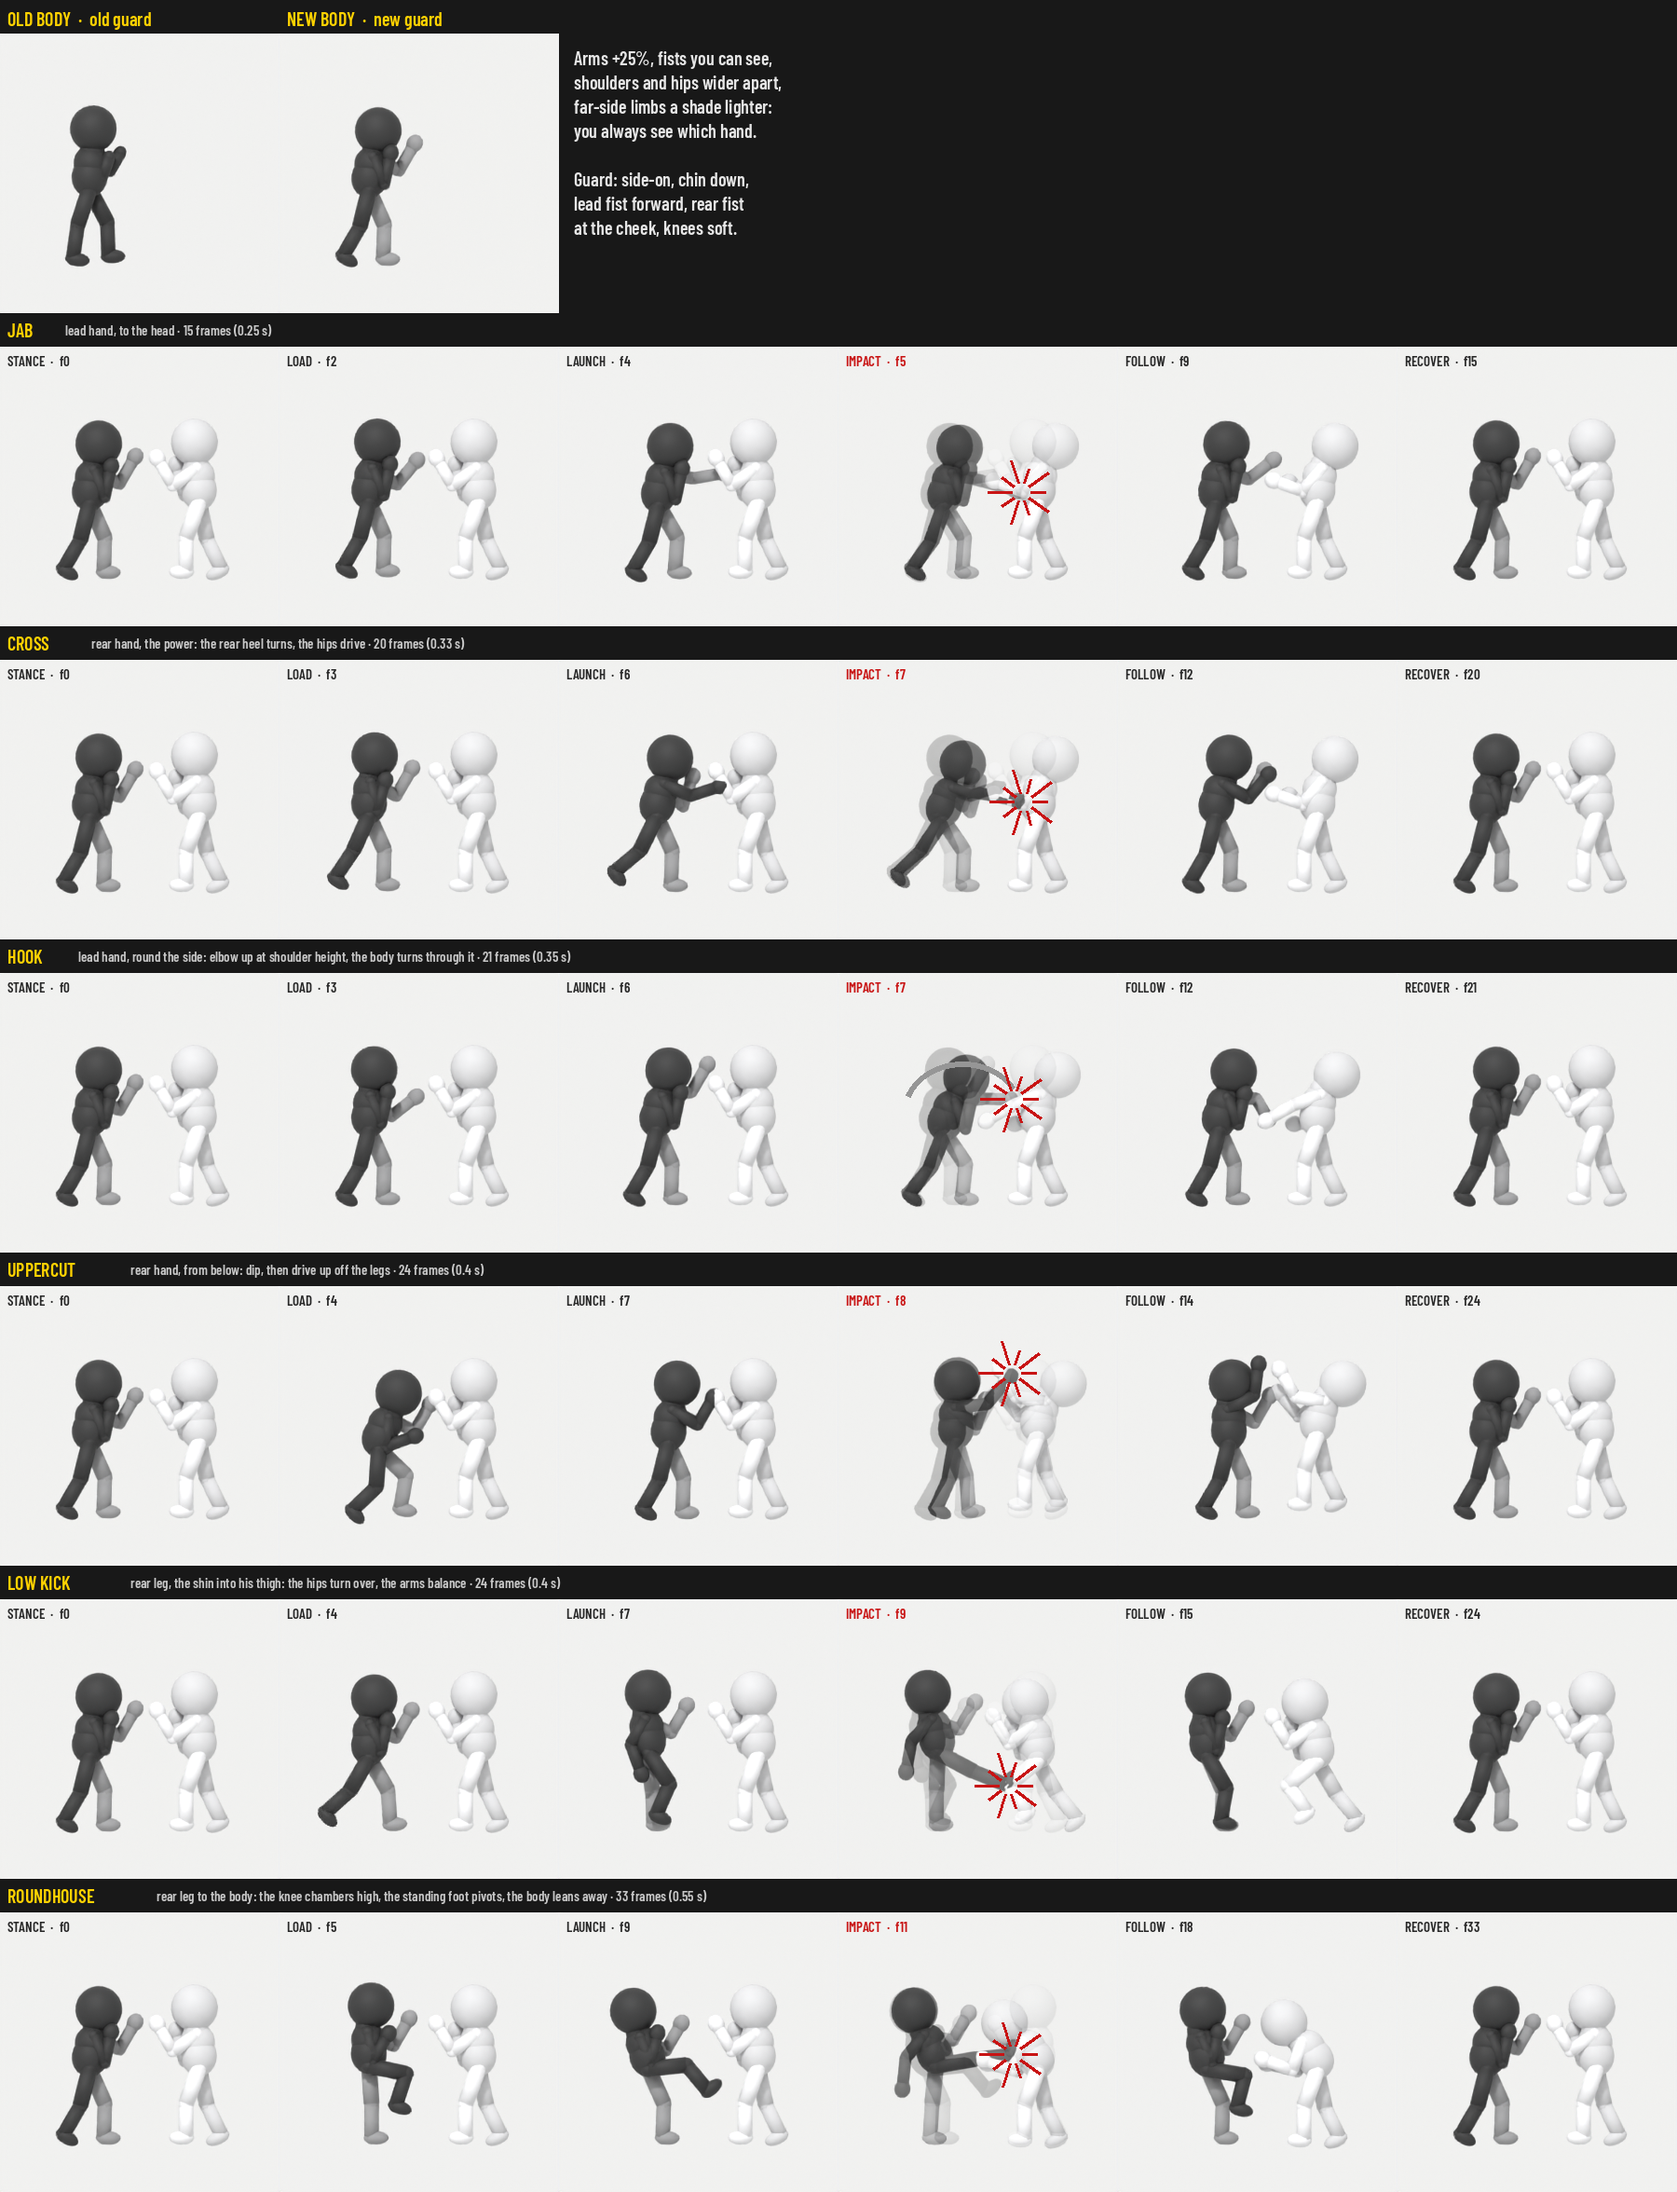
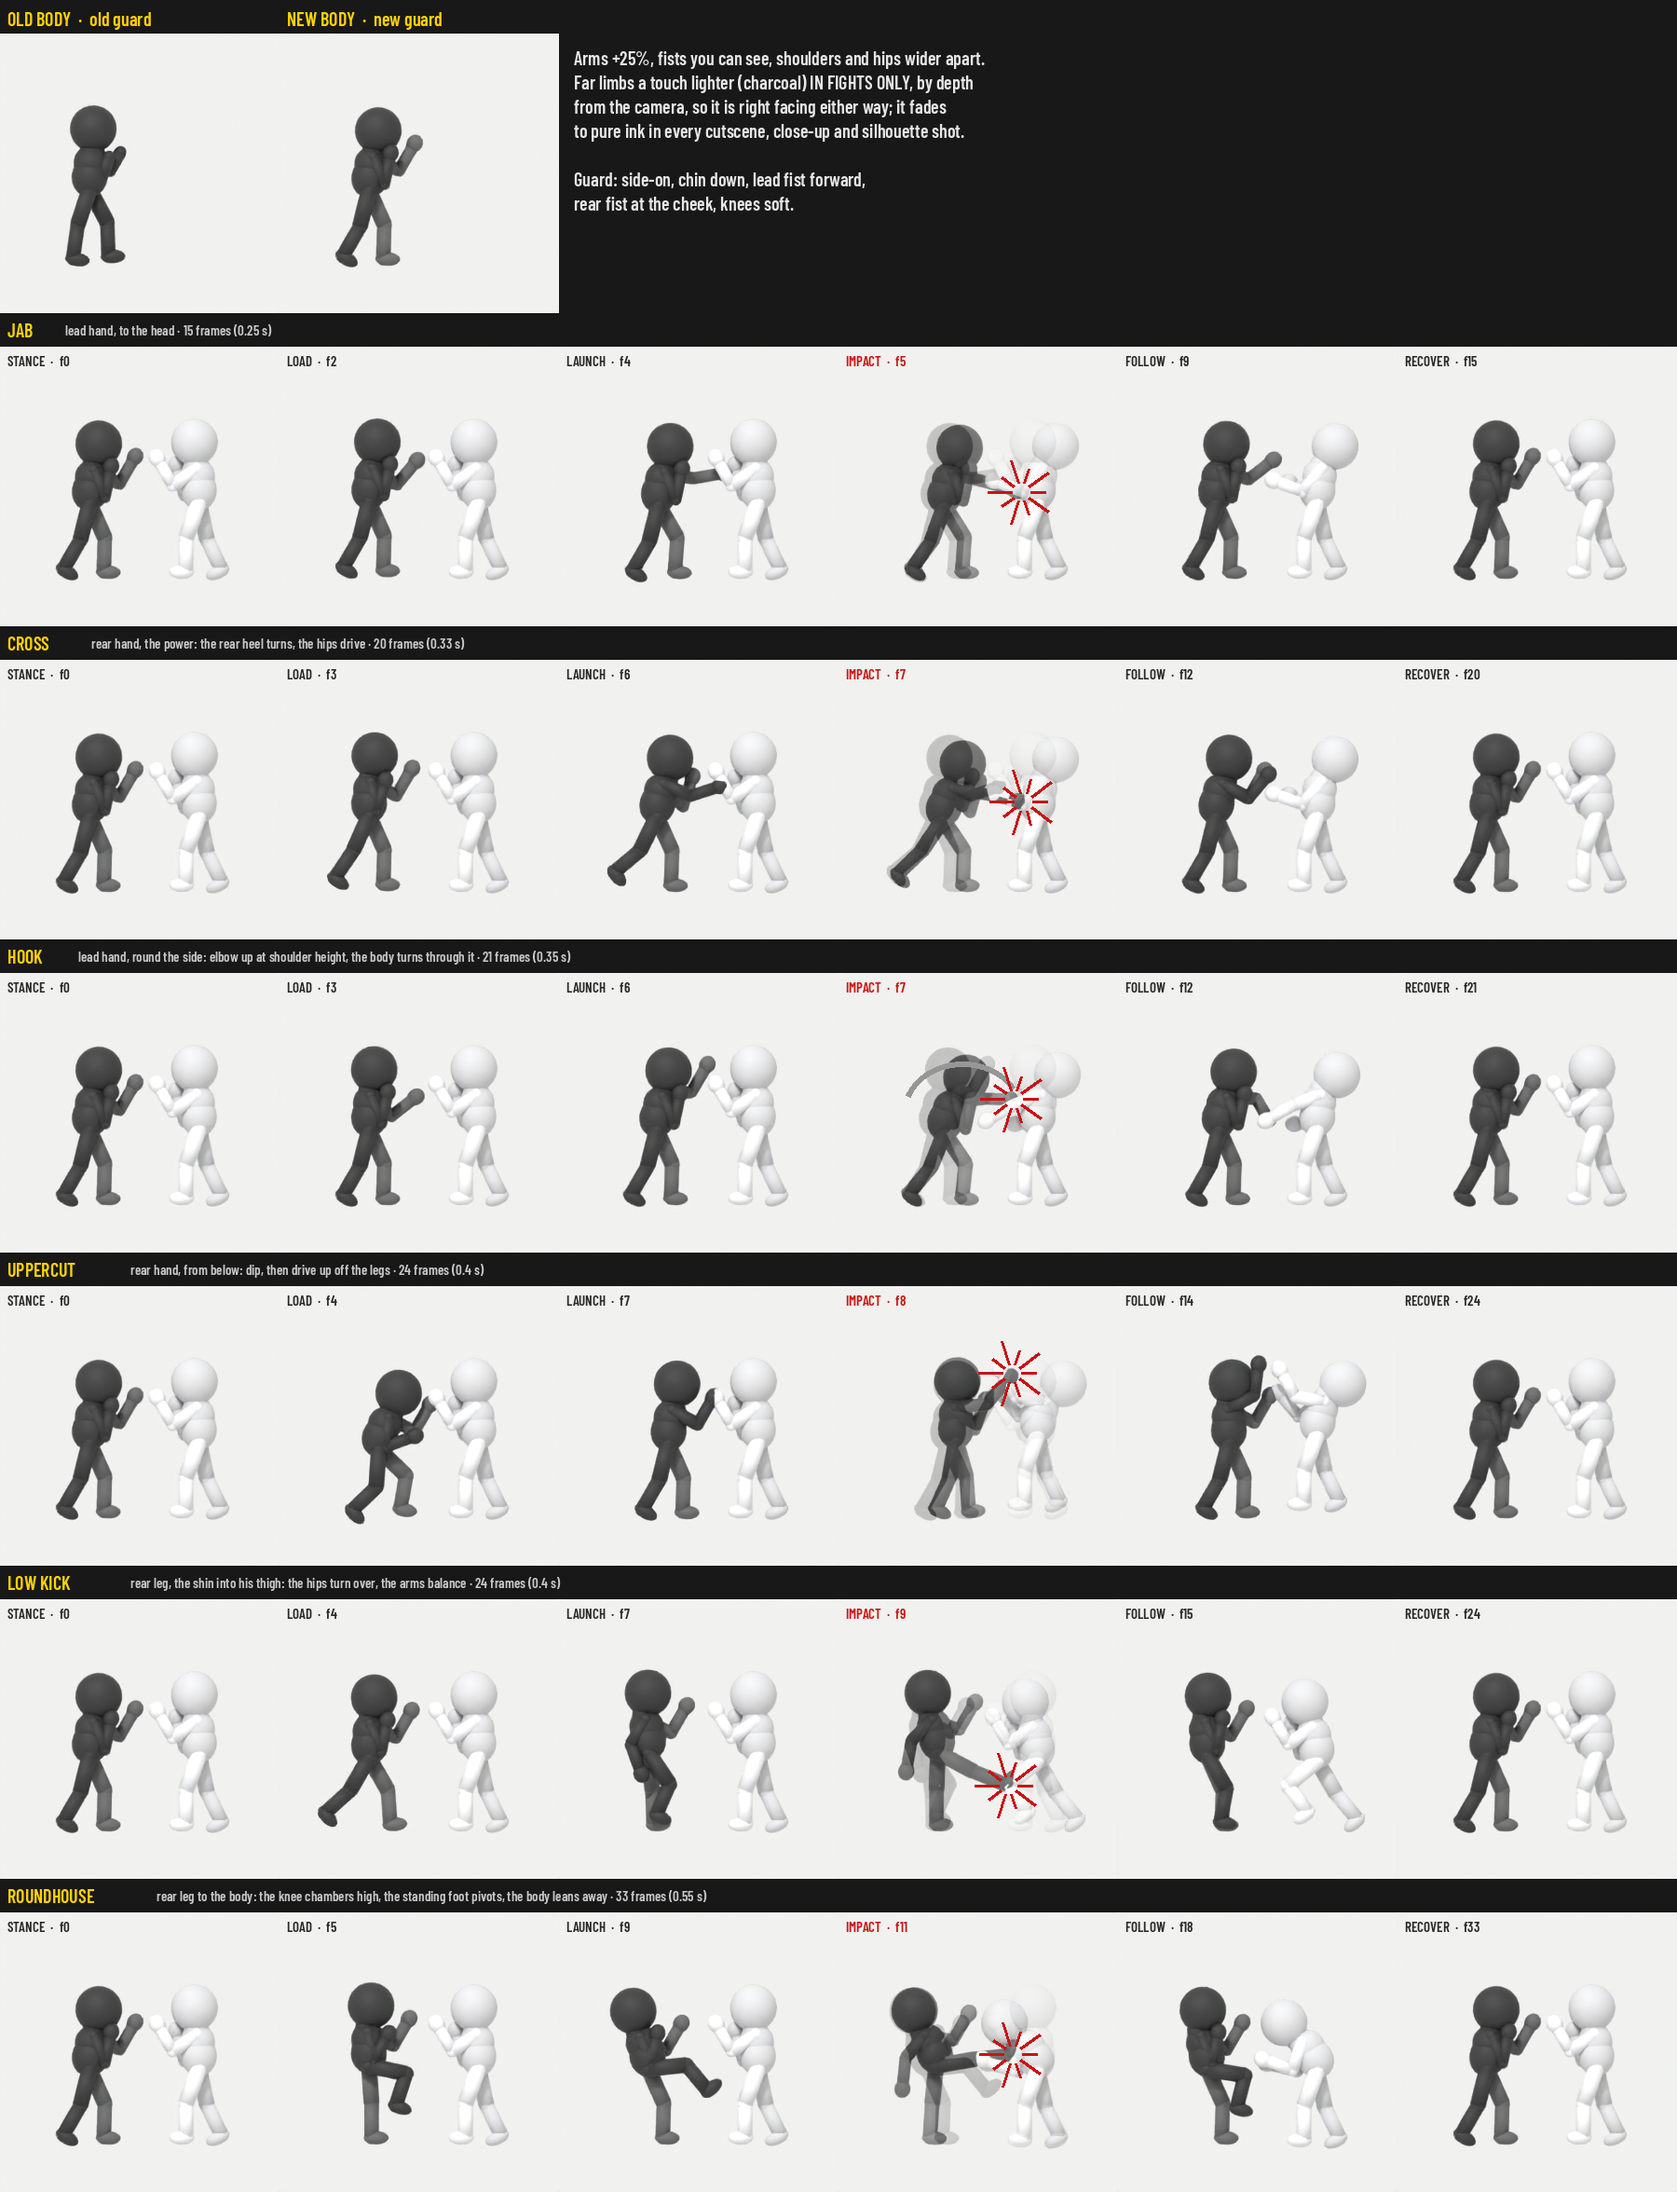
Strike lab: far limbs near-black charcoal (option C: fights only, by depth, pure ink in cutscenes); decision recorded in combat_v3
Claude-Session: https://claude.ai/code/session_015hMH19Q3ffBpefttWAikbH

diff --git a/tools/blender/strike_lab.py b/tools/blender/strike_lab.py
@@ -265,7 +265,7 @@ def main():
     for o in [o for o in bpy.data.objects if o.name.startswith("Old")]:
         bpy.data.objects.remove(o, do_unlink=True)
     bs.BONES.clear(); bs.BONES.update(new_bones())
-    hero = rig("Hero", 0.02, 0.26)
+    hero = rig("Hero", 0.02, 0.10)          # far limbs: near-black charcoal (fights only; pure ink in cutscenes)
     put(hero, STANCE)
     img_new = shot(TMP)
     tgt = rig("Target", 0.55, 0.72, x=0.98, facing=-1)
@@ -280,9 +280,13 @@ def main():
     r0.paste(img_old, (0, head_h)); r0.paste(img_new, (W, head_h))
     d0.text((8, 8), "OLD BODY  ·  old guard", fill=(255, 210, 0), font=font)
     d0.text((W + 8, 8), "NEW BODY  ·  new guard", fill=(255, 210, 0), font=font)
-    notes = ["Arms +25%, fists you can see,", "shoulders and hips wider apart,", "far-side limbs a shade lighter:",
-             "you always see which hand.", "", "Guard: side-on, chin down,", "lead fist forward, rear fist",
-             "at the cheek, knees soft."]
+    notes = ["Arms +25%, fists you can see, shoulders and hips wider apart.",
+             "Far limbs a touch lighter (charcoal) IN FIGHTS ONLY, by depth",
+             "from the camera, so it is right facing either way; it fades",
+             "to pure ink in every cutscene, close-up and silhouette shot.",
+             "",
+             "Guard: side-on, chin down, lead fist forward,",
+             "rear fist at the cheek, knees soft."]
     for i, line in enumerate(notes):
         d0.text((2 * W + 16, head_h + 14 + i * 26), line, fill=(230, 230, 230), font=font)
     rows.append(r0)

diff --git a/docs/design/combat_v3.md b/docs/design/combat_v3.md
@@ -291,7 +291,22 @@ This is what makes a stickman's blow feel heavier than a realistic body's.
 - rain bursts off a body in all directions;
 - a thrown man can go *through* the set's depth: into the racking behind, or through a window into the street.
 
-### 6.6 What I'm holding back on (debate)
+### 6.6 The body and its shading (decided)
+
+The new body has arms 25% longer, visible fists, and shoulders and hips set wider apart
+(`tools/blender/strike_lab.py`, `docs/previews/strike_lab.png`). Strikes are hand-keyed in five key poses:
+load, launch, impact (with the stretch), follow and recover.
+
+**Shading: option C.** He is pure black ink; that is his identity. **In fights only**, the limbs further
+from the camera are drawn a touch lighter (a near-black charcoal), so you can tell which arm threw the
+punch. It is worked out by depth each frame, so it is right facing either way, and through a turn the two
+sides meet at the same shade. It fades to pure ink over a third of a second whenever the camera goes
+cinematic: cutscenes, close-ups and silhouettes are always solid black.
+- **Enemies:** the same rule in their own colours.
+- **Maya:** she stays pure white.
+- **Posing does most of the work:** arms are kept clear of the body at launch, impact and finish.
+
+### 6.7 What I'm holding back on (debate)
 
 - **Slow motion only where it means something.** On enders, counters and the last man: about once every
   few seconds at most. If every hit is slow, none of them is.
@@ -305,7 +320,7 @@ This is what makes a stickman's blow feel heavier than a realistic body's.
   Performance is budgeted for phones (a capped number of particles and lights; the colour pulse and blur
   are full-screen passes of a few milliseconds only).
 
-### 6.7 The named combos (each one a memory)
+### 6.8 The named combos (each one a memory)
 
 | Weapon | Name | Drawn | Ender |
 |---|---|---|---|
